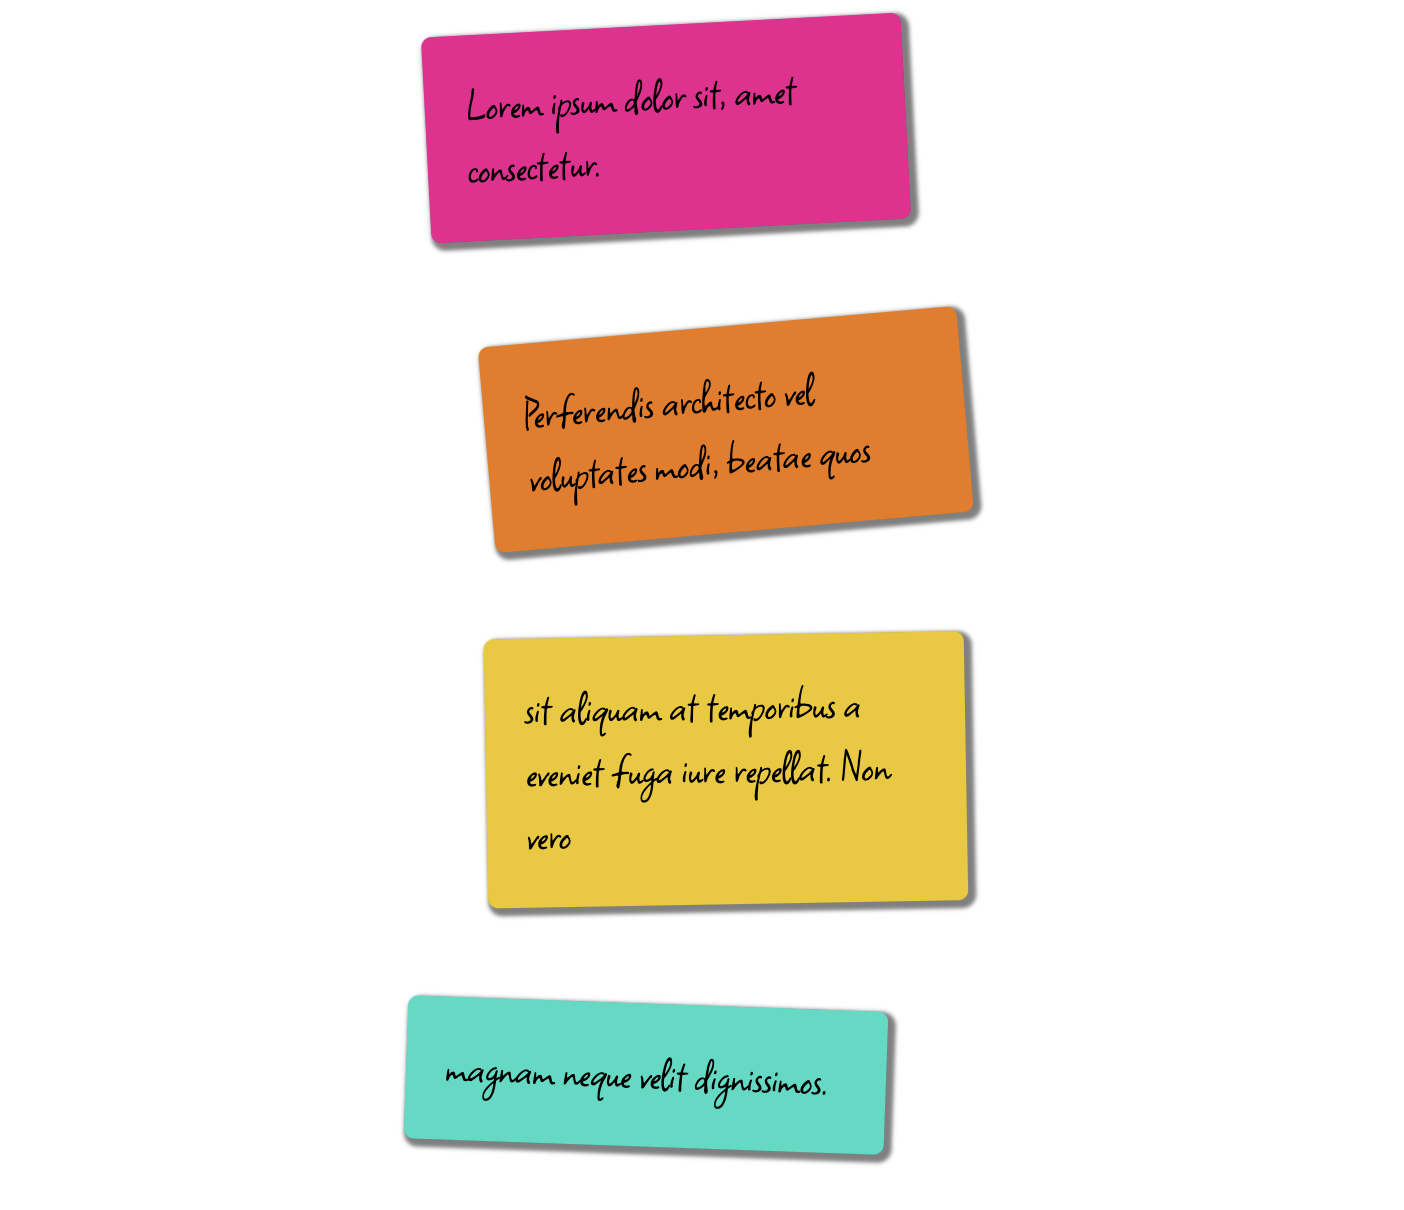
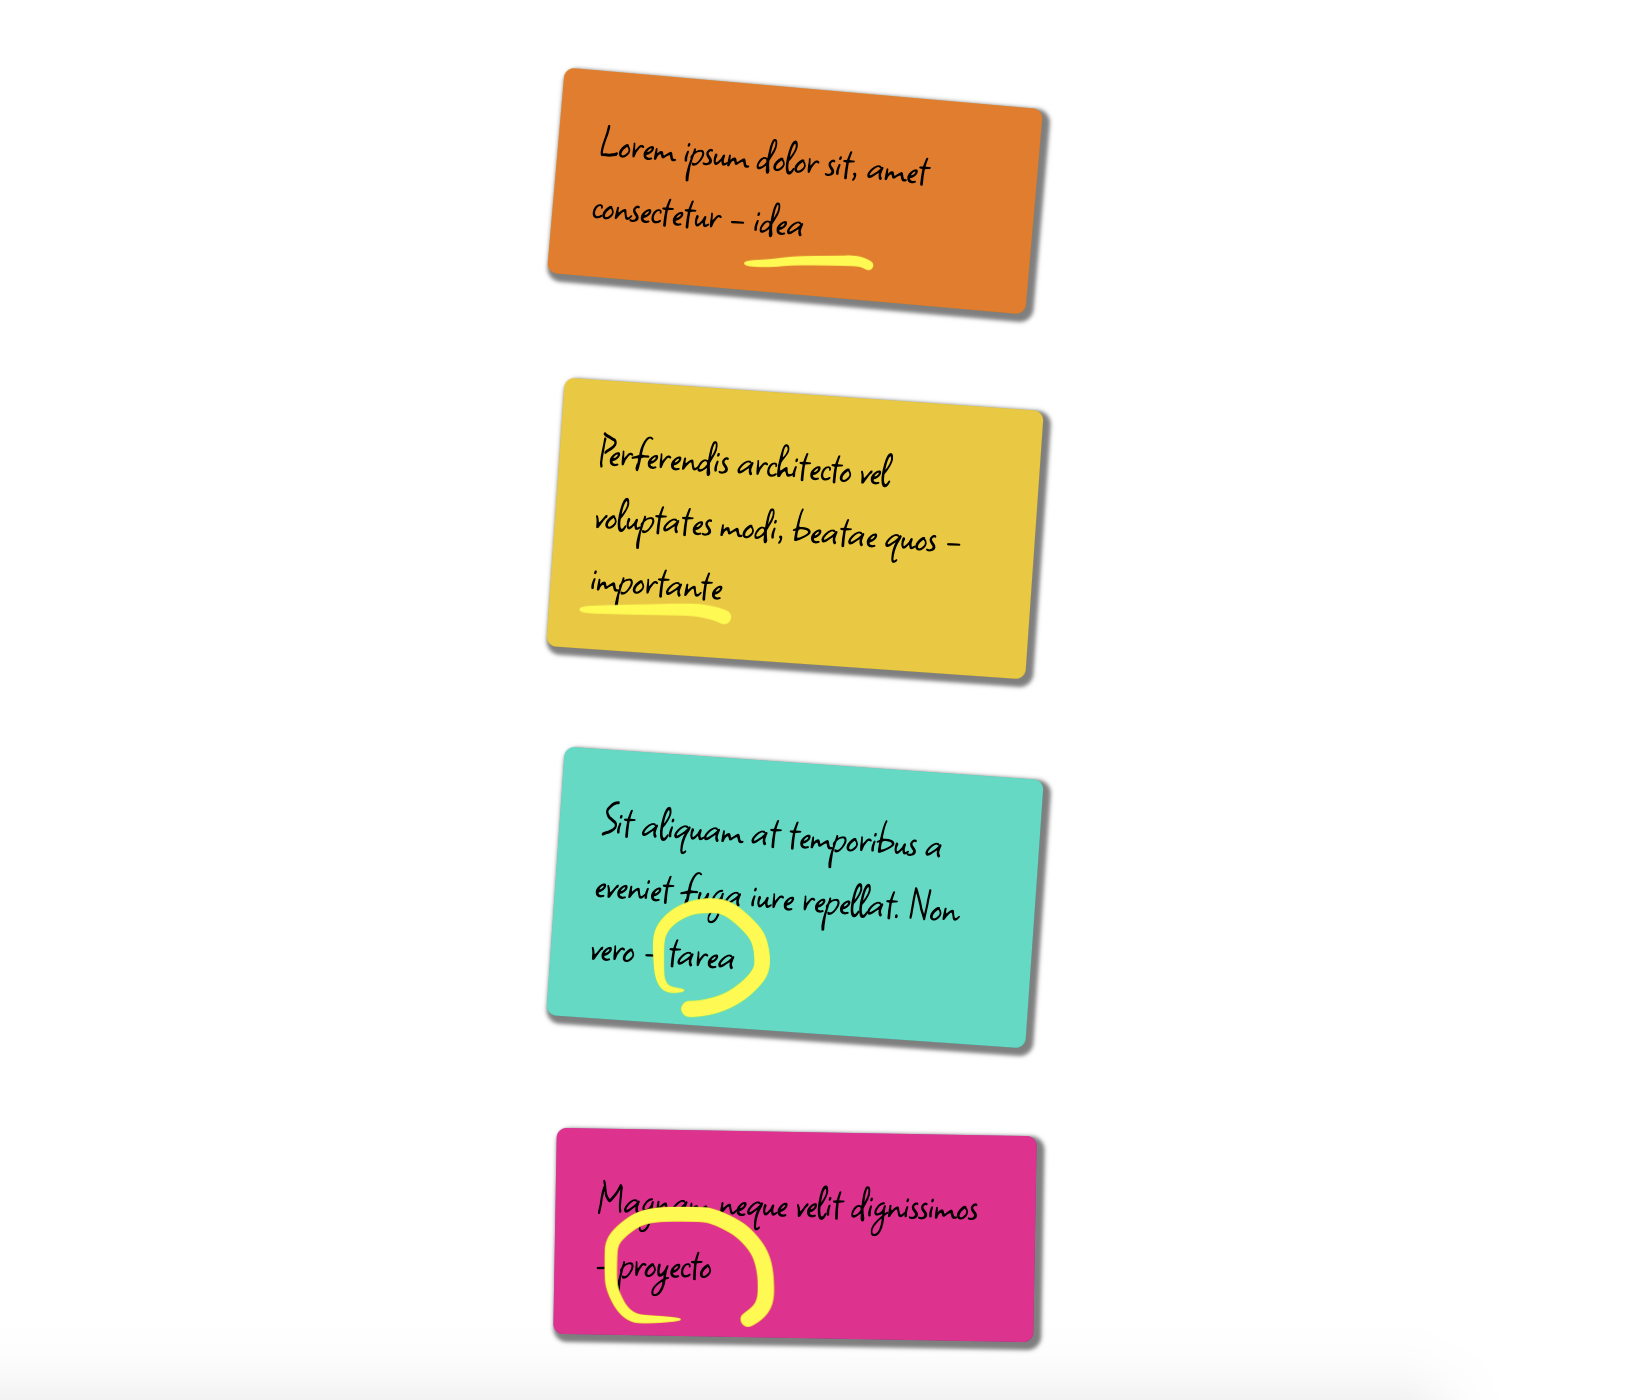
corrections readme

Changed region(s): [[0.2756, 0.0, 0.7044, 0.4893], [0.3063, 0.5198, 0.7044, 0.7645], [0.2756, 0.795, 0.6432, 0.9785]]

diff --git a/README.md b/README.md
@@ -4,7 +4,43 @@
 
 Template CSS for html block with style like post-it.
 
-- classes are added randomly
+- classes are last word of post's text(in spanish):
+importante, tarea, proyecto, idea or nota
+
+<style>
+
+.post-it{
+    font-size: 12px;
+    display: table;
+    padding: 10px;
+    margin: 10px;
+    background: #efc800;
+    border-radius: 5px;
+}
+
+.post-importante {background: #efc800;}
+.post-tarea      {background: #13ddc2;}
+.post-proyecto   {background: #f00592;}
+.post-idea       {background: #ef7700;}
+.post-nota       {background: #06c355;}
+
+</style>
+<div class="post-it post-importante">Lorem ipsum dolor sit amet, consectetur adipiscing elit - importante</div>
+<div class="post-it post-tarea">Sed do eiusmod tempor incididunt ut labore - tarea</div>
+<div class="post-it post-proyecto">Ut enim ad minim veniam, quis - proyecto</div>
+<div class="post-it post-idea">Duis aute irure dolor in reprehenderit in voluptate - idea</div>
+<div class="post-it post-nota">Excepteur sint occaecat cupidatat non proident - nota</div>
+
+
+
+
+
+
+
+
+
+
+
 
 ## Web Preview
 
